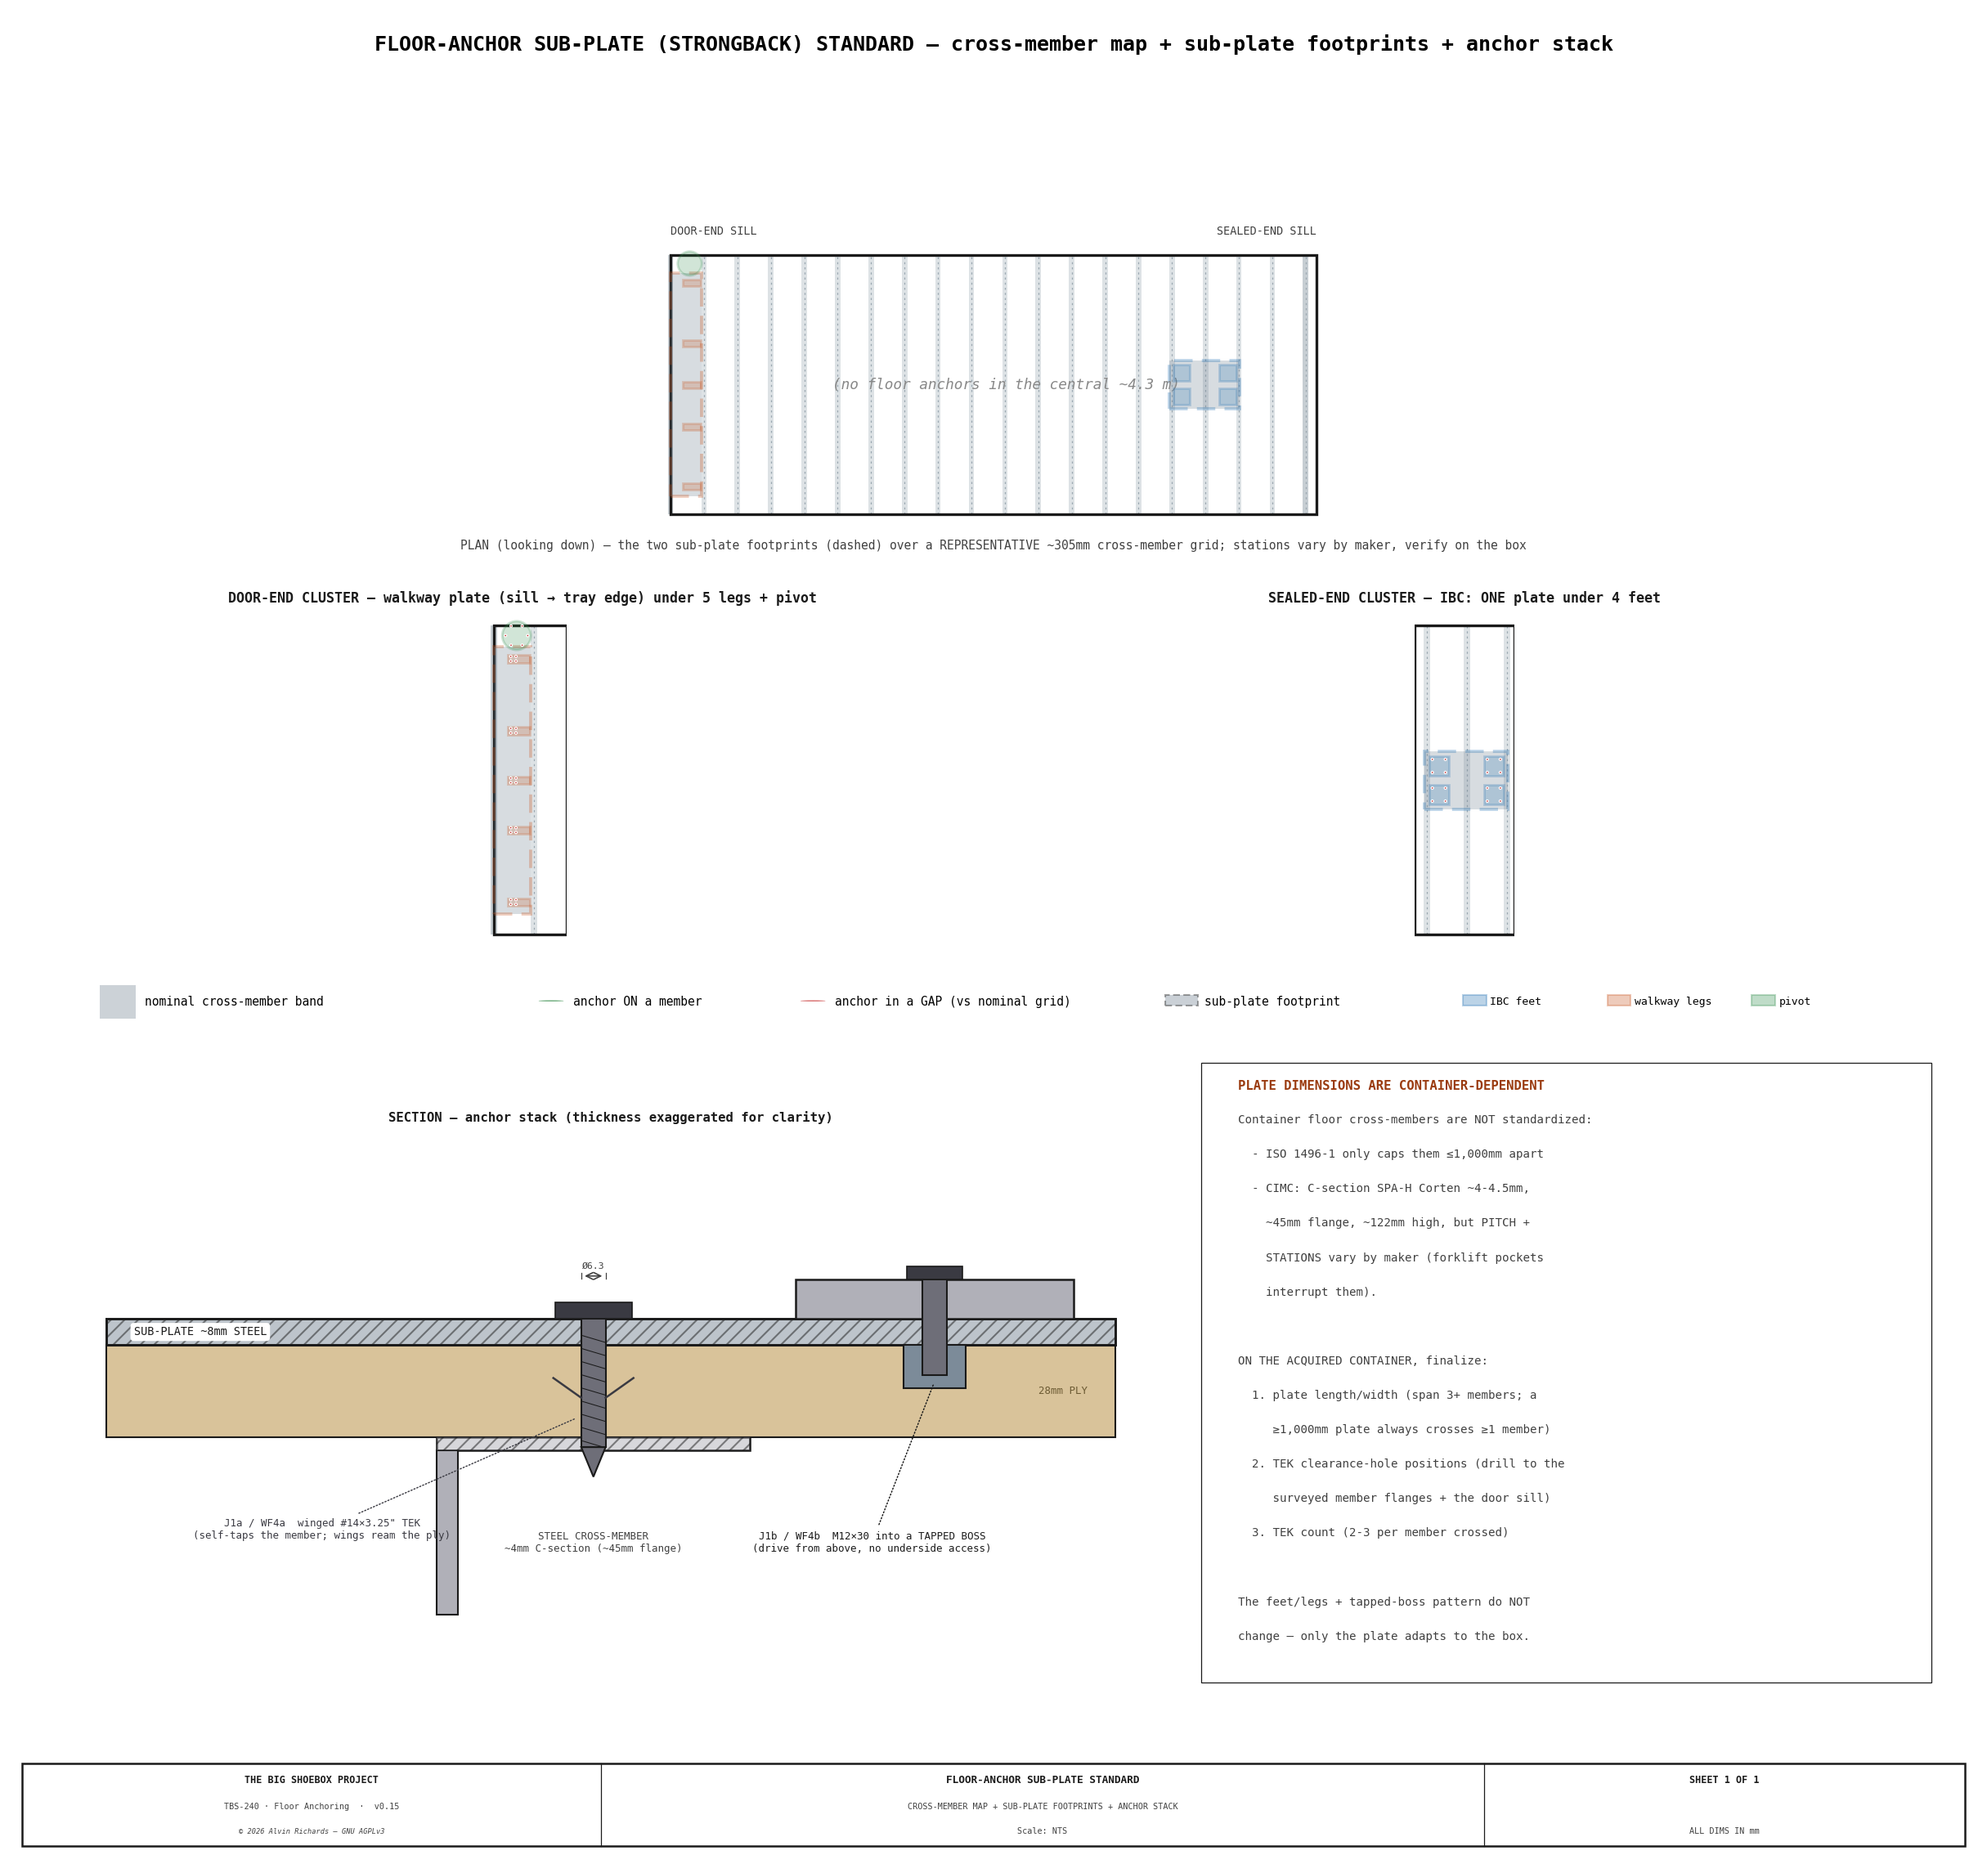
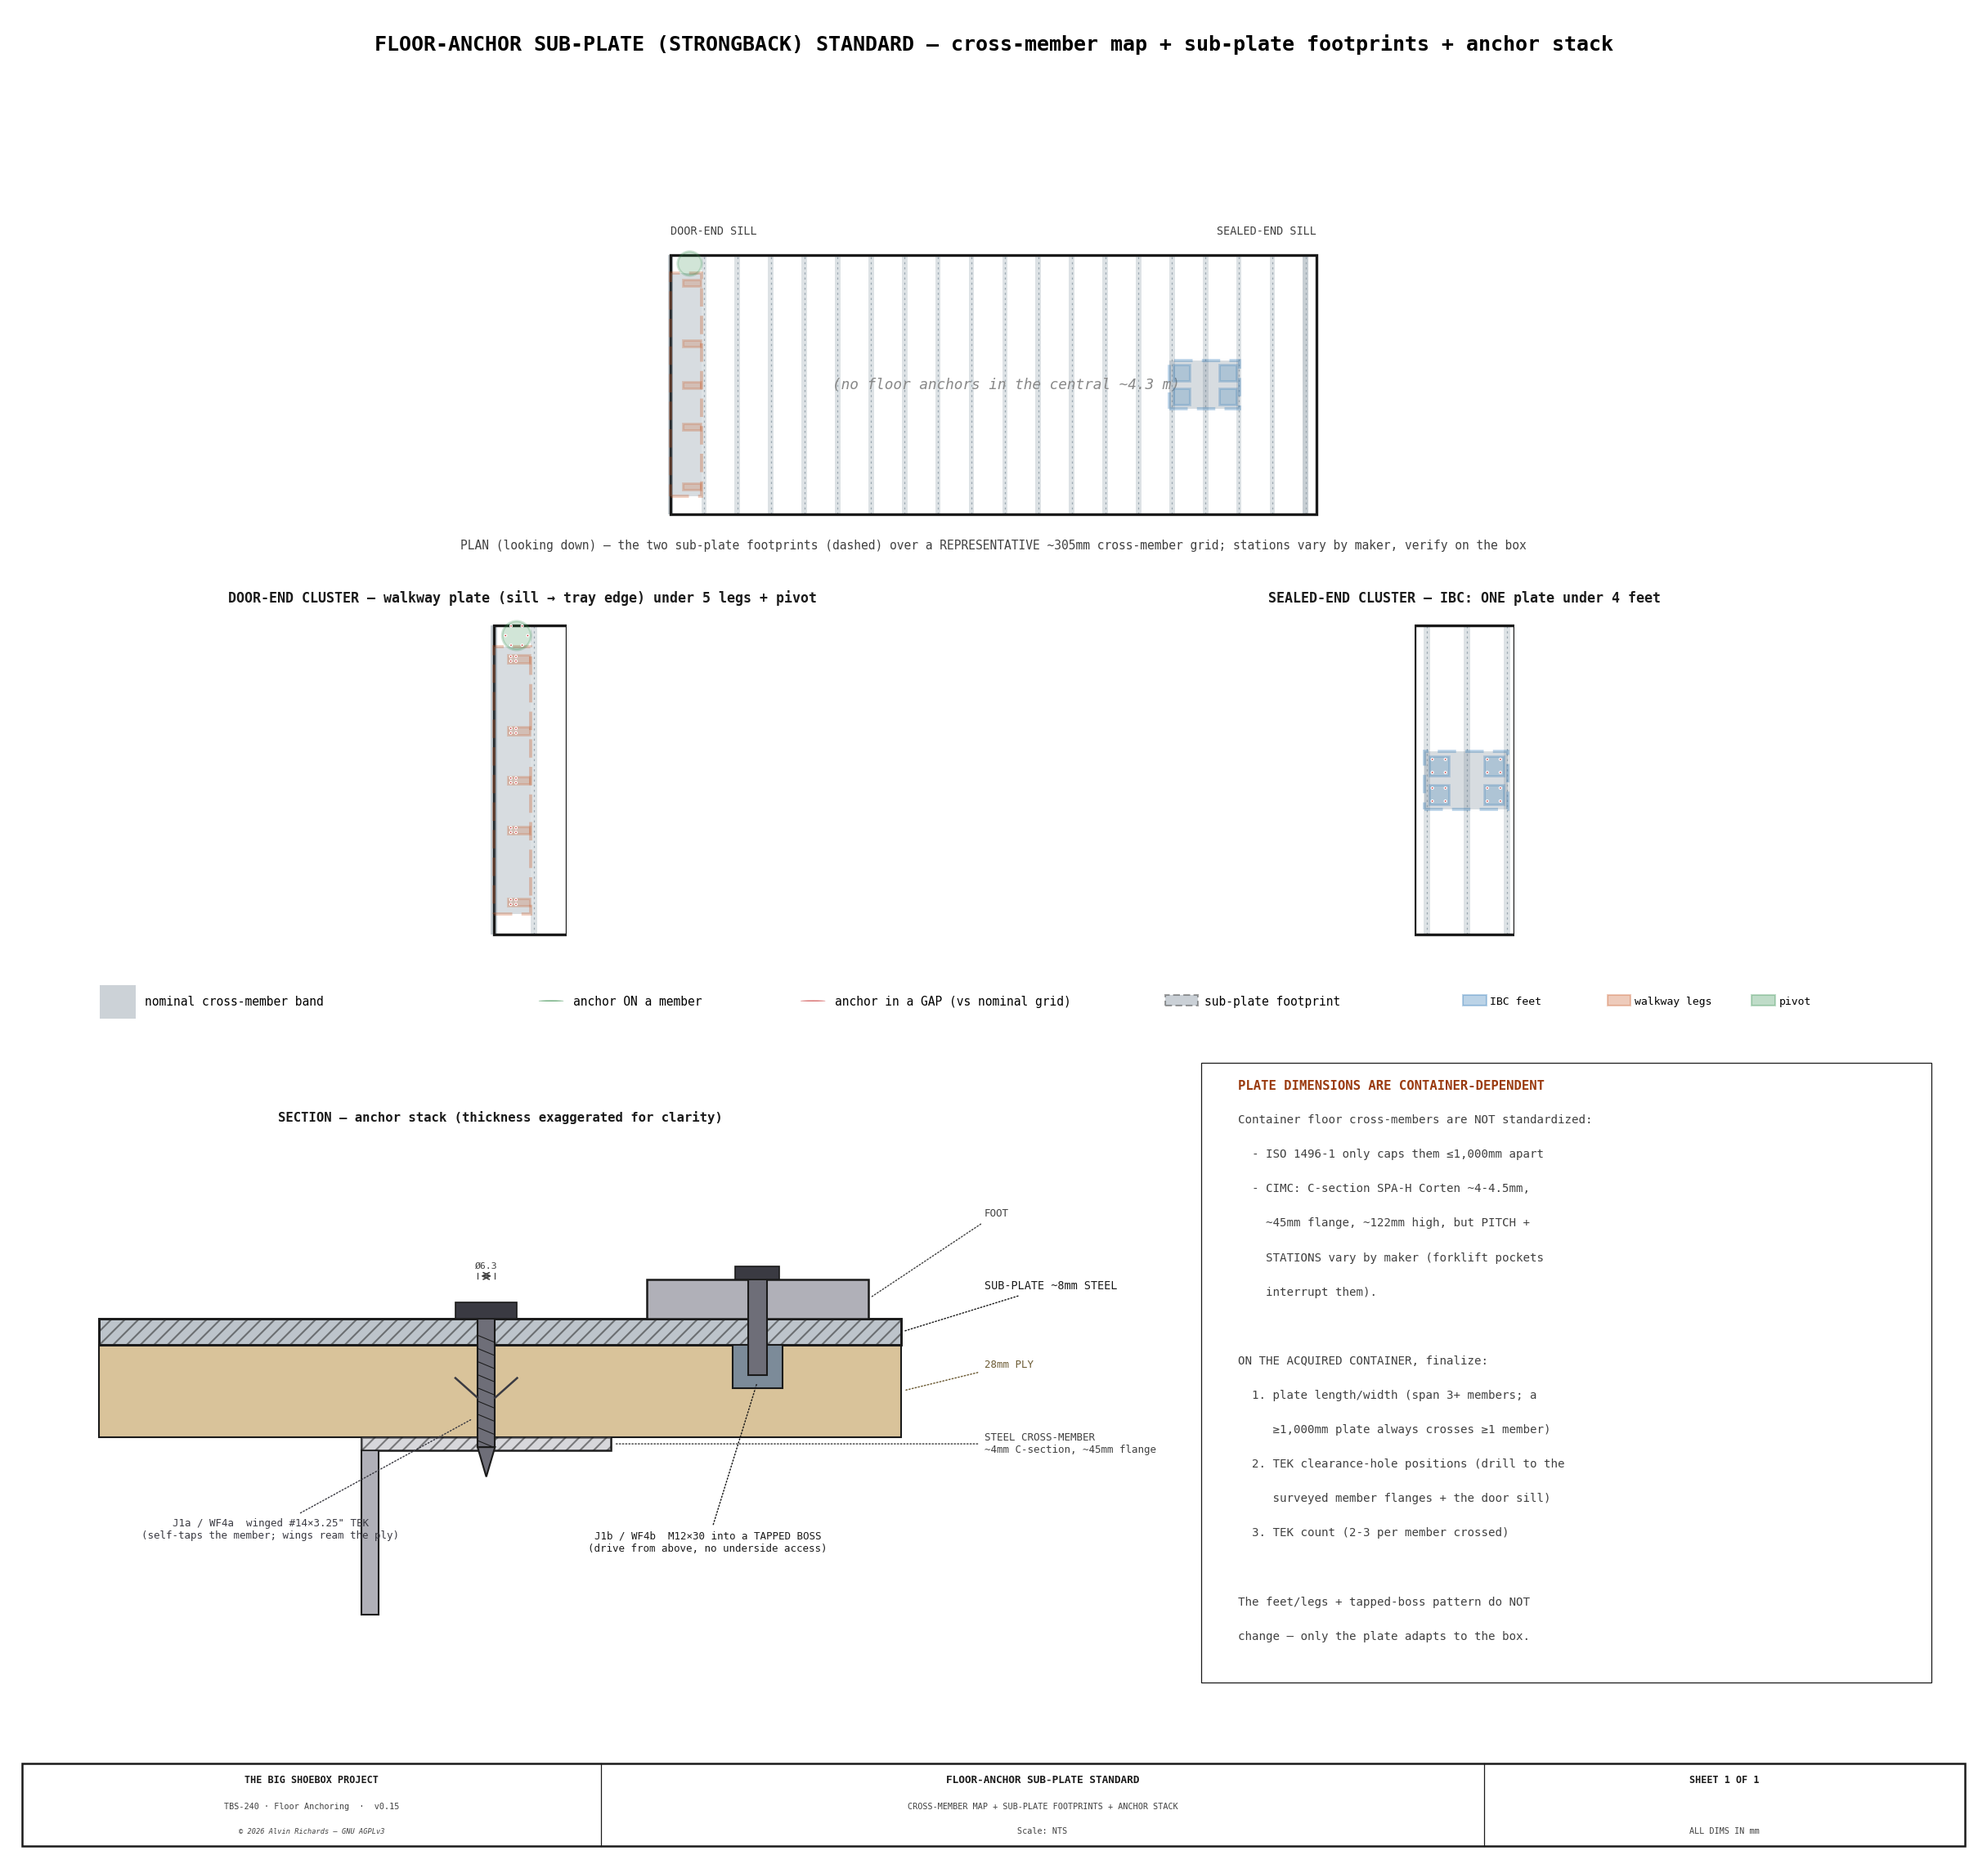
floor-anchor-map: use leader() for section layer callouts; drop pasted bbox stub
- Convert the four floating section-stack labels (FOOT, SUB-PLATE, PLY,
  STEEL CROSS-MEMBER) from disconnected ax.text to leader() calls in a
  right-hand column, each tip on its layer edge — consistent with the
  J1a/J1b fastener leaders and the rest of the drawing set.
- Remove the verbatim bbox tutorial stub (and its now-unneeded white
  mask) — labels sit in whitespace via leaders instead of masking.
- Hoist the stray in-function 'import math' to the module imports.
- Draw the TEK shank at its true Ø6.3 and reference that value in the
  diameter dim so geometry + callout can't drift.

diff --git a/src/generators/generate_floor_anchor_map.py b/src/generators/generate_floor_anchor_map.py
@@ -15,6 +15,7 @@ Sheet 2 — the standard: a self-tapped SUB-PLATE (strongback) spanning several
 members, with the feet/legs bolting UP into tapped bosses on the plate. Plate
 dimensions + TEK count are container-dependent (finalized on the acquired box).
 """
+import math
 import os
 
 import matplotlib
@@ -66,7 +67,6 @@ def wk_feet():
 
 
 def pivot_feet():
-    import math
     cx, cy, pcd = k.PIVOT_X, k.PIVOT_YD, 170.0
     holes = [(cx + pcd/2 * math.cos(math.radians(a)), cy + pcd/2 * math.sin(math.radians(a)))
              for a in range(0, 360, 60)]
@@ -154,13 +154,6 @@ def sheet(fig):
     fig.suptitle("FLOOR-ANCHOR SUB-PLATE (STRONGBACK) STANDARD — cross-member map + sub-plate footprints + anchor stack",
                  fontsize=12, fontweight="bold", y=0.988, **FONT)
 
-    bbox=dict(
-        boxstyle="round,pad=0.30",   # or "square,pad=…" for sharp corners
-        facecolor="white",
-        edgecolor="none",              # "#1A1A1A" if you want a visible border
-        alpha=1.0,                     # fully opaque so it masks what's under it
-    )
-
     # ── TOP: full-length plan + both sub-plate footprints (dashed) ─────────────
     ax_plan = fig.add_axes([0.04, 0.72, 0.92, 0.155])
     plot_region(ax_plan, -160, k.C_LEN + 160, "", holes_on=False)
@@ -186,24 +179,28 @@ def sheet(fig):
 
     # ── BOTTOM-LEFT: anchor-stack section (thickness exaggerated) ──────────────
     ax = fig.add_axes([0.03, 0.075, 0.55, 0.34]); ax.axis("off")
-    ax.set_xlim(0, 310); ax.set_ylim(-40, 150); ax.set_aspect("auto")
+    ax.set_xlim(0, 390); ax.set_ylim(-40, 150); ax.set_aspect("auto")
 
     base_y, mx = 40, 150
     # steel cross-member (C-section stub, in section) under the plywood
     hatch_rect(ax, mx-45, base_y, 90, 4, color=C_STEEL)                                                  # top flange (~45mm)
     ax.add_patch(Rectangle((mx-45, base_y), 90, 4, fill=False, edgecolor=C_OUT, lw=1.2))
     ax.add_patch(Rectangle((mx-45, base_y-50), 6, 50, facecolor=C_STEEL, edgecolor=C_OUT, lw=1.0))        # web down
-    ax.text(mx, base_y-28, "STEEL CROSS-MEMBER\n~4mm C-section (~45mm flange)", ha="center", va="center", fontsize=6, color=C_DIM, **FONT)
     # plywood deck + sub-plate on top
     ax.add_patch(Rectangle((10, base_y+4), 290, 28, facecolor=C_PLY, edgecolor=C_OUT, lw=1.0, zorder=2))  # 28mm ply
-    ax.text(292, base_y+18, "28mm PLY", ha="right", va="center", fontsize=6, color="#6B5A33", **FONT)
     plate_y = base_y + 32
     hatch_rect(ax, 10, plate_y, 290, 8, color=C_PLATE)
     ax.add_patch(Rectangle((10, plate_y), 290, 8, fill=False, edgecolor=C_OUT, lw=1.4, zorder=3))
-    ax.text(18, plate_y+4, "SUB-PLATE ~8mm STEEL", ha="left", va="center", fontsize=6.5, color=C_OUT, bbox=bbox, **FONT)
+
+    # layer callouts — leaders to a right-hand column, each tip on its layer's edge
+    LX = 330
+    leader(ax, mx+45, base_y+2, LX, base_y+2, "STEEL CROSS-MEMBER\n~4mm C-section, ~45mm flange",
+           fs=6, color=C_DIM, font=FONT)
+    leader(ax, 300, base_y+18, LX, base_y+26, "28mm PLY", fs=6, color="#6B5A33", font=FONT)
+    leader(ax, 300, plate_y+4, LX, plate_y+18, "SUB-PLATE ~8mm STEEL", fs=6.5, color=C_OUT, font=FONT)
 
     # ── J1a winged TEK — drawn as a screw WITH its diameter (house convention) ──
-    tek_x, dia = mx, 7.0                                    # #14 ~Ø6.3mm, drawn to scale
+    tek_x, dia = mx, 6.3                                    # #14 ~Ø6.3mm, drawn to scale
     head_z, tip_z = plate_y + 8, base_y - 8
     body_bot = tip_z + 9
     ax.add_patch(Rectangle((tek_x-11, head_z), 22, 5, fc=C_BOLT, ec=C_OUT, lw=0.8, zorder=8))             # hex-washer head
@@ -213,7 +210,7 @@ def sheet(fig):
     for s in (-1, 1):                                                                                     # reaming wings (snap off at the steel)
         ax.plot([tek_x+s*dia/2, tek_x+s*(dia/2+8)], [base_y+16, base_y+22], color=C_BOLT, lw=1.2, zorder=6)
     ax.add_patch(Polygon([(tek_x-dia/2, body_bot), (tek_x+dia/2, body_bot), (tek_x, tip_z)], closed=True, fc="#6E6E78", ec=C_OUT, lw=1.0, zorder=6))  # drill point
-    draw_dim_h(ax, tek_x-dia/2, tek_x+dia/2, head_z+13, "Ø6.3", offset=3, fs=5.5, above=True, font=FONT)  # the SCREW DIAMETER
+    draw_dim_h(ax, tek_x-dia/2, tek_x+dia/2, head_z+13, f"Ø{dia:g}", offset=3, fs=5.5, above=True, font=FONT)  # the SCREW DIAMETER
     leader(ax, tek_x-dia/2-1, base_y+10, tek_x-78, base_y-24,
            "J1a / WF4a  winged #14×3.25\" TEK\n(self-taps the member; wings ream the ply)",
            fs=6, color=C_BOLT, font=FONT, ha="center")
@@ -221,7 +218,7 @@ def sheet(fig):
     # ── J1b foot → sub-plate tapped boss ───────────────────────────────────────
     foot_x = 248
     ax.add_patch(Rectangle((foot_x-40, plate_y+8), 80, 12, facecolor=C_STEEL, edgecolor=C_OUT, lw=1.2, zorder=4))  # foot
-    ax.text(foot_x, plate_y+14, "FOOT", ha="center", va="center", fontsize=6, color=C_DIM, **FONT)
+    leader(ax, foot_x+40, plate_y+14, LX, plate_y+40, "FOOT", fs=6, color=C_DIM, font=FONT)
     ax.add_patch(Rectangle((foot_x-9, plate_y-13), 18, 13, facecolor=C_PLATE, edgecolor=C_OUT, lw=1.0, zorder=4))  # tapped boss
     ax.add_patch(Rectangle((foot_x-3.5, plate_y-9), 7, 29, fc="#6E6E78", ec=C_OUT, lw=1.0, zorder=5))             # M12 shank (shows diameter)
     ax.add_patch(Rectangle((foot_x-8, plate_y+20), 16, 4, fc=C_BOLT, ec=C_OUT, lw=0.8, zorder=6))                # hex head
